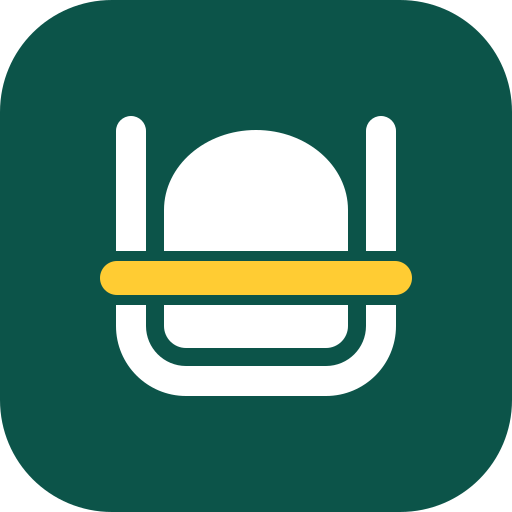
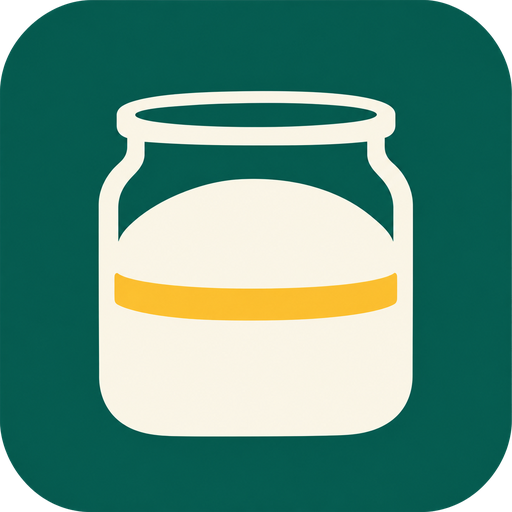
Brand: swap hand-drawn mark for the ChatGPT-generated one
Replace the six SVG marks and the old raster marks/favicons with the
ChatGPT-generated avatar set (1024/512/256) and favicons (64/32/16, .ico),
and add the brand board as sourdough-board.png. Rewrite site/brand/README.md
to match: the mark is generated, not drawn; if a vector is ever needed,
trace the PNG with vtracer or potrace.

diff --git a/site/brand/README.md b/site/brand/README.md
@@ -1,41 +1,43 @@
 # Sourdough brand files
 
-**The mark is a starter jar: the starter has risen into a dome, well above the gold band that marks where it
-began.** Bakers put a band on the jar to see whether a starter is alive. Sourdough's starters are the same: you
-feed them, and you can see that they grew.
+**Feed it and it grows.** The mark is a starter jar: the starter has risen into a dome, well above the gold
+band that marks where it began. Bakers put a band on the jar to see whether a starter is alive. Sourdough's
+starters are the same: you feed them, and you can see that they grew.
+
+## The mark
+The mark is generated by ChatGPT: a starter jar with a gold band, on the Wayne State green `#0C5449` tile.
+Nobody draws or edits the mark's geometry. The PNGs below are the mark; every smaller size is a straight
+downscale of them.
 
 ## Colours
 | Role | Colour |
 |---|---|
-| Jar and starter, tile | Wayne State green `#0C5449` |
+| Tile | Wayne State green `#0C5449` |
 | The band (the only gold) | Wayne State gold `#FFCC33` |
-| Jar and starter on the tile or on dark backgrounds | White `#FFFFFF` |
-| Site accent only, never in the mark | Crust `#B69018` (WayneUI `gold.800`) |
+| Jar and starter | Cream `#F4F1EA` |
+| Site accent only, never in the mark | Crust `#B69018` |
 
 Gold never sits behind white text.
 
 ## Files
-| File | Use |
-|---|---|
-| `sourdough-mark.svg` | The mark on light backgrounds: green jar and starter, gold band |
-| `sourdough-mark-white.svg` | The mark on dark or green backgrounds: white jar and starter, gold band |
-| `sourdough-mark-mono.svg` | One colour (`currentColor`), for print and single-ink use |
-| `sourdough-tile.svg` | The app icon: a green rounded tile with the white jar |
-| `sourdough-favicon.svg` | The tile simplified for 32 and 64 px: thicker walls and a thicker band |
-| `sourdough-favicon-16.svg` | Hand-hinted on the 16 px grid. One unit is one pixel |
-| `sourdough-avatar-512.png` | The GitLab project avatar and the Open Graph image base |
-| `sourdough-mark-1024.png`, `sourdough-mark-white-1024.png` | Raster marks for slides and documents |
-| `favicon-16.png`, `favicon-32.png`, `favicon-64.png`, `favicon.ico` | Browser favicons; the `.ico` holds all three |
+| File | Size | Use |
+|---|---|---|
+| `sourdough-avatar-1024.png` | 716,845 B | The master: slides, documents, anything large |
+| `sourdough-avatar-512.png` | 219,182 B | The GitLab project avatar and the Open Graph image |
+| `sourdough-avatar-256.png` | 57,867 B | Header and hero marks, the Apple touch icon |
+| `favicon-64.png` | 5,106 B | High-DPI favicons |
+| `favicon-32.png` | 1,892 B | Favicons |
+| `favicon-16.png` | 720 B | Favicons |
+| `favicon.ico` | 6,096 B | Browser favicons; holds 16, 32 and 64 px |
+| `sourdough-board.png` | 982,418 B | The brand board |
 
-## Geometry
-The SVGs are drawn from exact geometry, not traced.
-- **The jar:** an open U, 280 units wide and 280 tall on a 512 grid, with walls 30 thick, outer bottom corners of
-  radius 70 and round caps on top.
-- **The starter:** 18 units inside the walls, with a half-ellipse dome 80 tall. Its top sits just below the rim.
-- **The band:** 34 units tall with round ends, 16 wider than the jar on each side. Jar and starter stop 10 units
-  clear of it, so the band still reads when the mark is one colour.
+## The board
+`sourdough-board.png` is the reference sheet: the hero mark, the app icon, the horizontal and stacked lockups,
+the mark on light and dark backgrounds, the colour palette, the typography (Lato Black / Lato Regular), the
+favicon previews, the clear space (minimum `x` = a quarter of the icon width), the do's and don'ts, and the
+terminal usage. When in doubt about what the mark looks like, look at the board, not at memory.
 
-## Rendering
-The PNGs were rendered with Inkscape 1.4, for example
-`inkscape sourdough-tile.svg --export-type=png --export-filename=sourdough-avatar-512.png -w 512 -h 512`. The `.ico`
-was built with ImageMagick 7: `magick favicon-16.png favicon-32.png favicon-64.png favicon.ico`.
+## Rule
+Do not redraw or edit the mark. No new geometry, no "just a little" cleanup, no stretching, no effects. If a
+vector is ever needed, trace the PNG with vtracer or potrace — and keep the trace next to the PNG it came
+from, never in its place.
